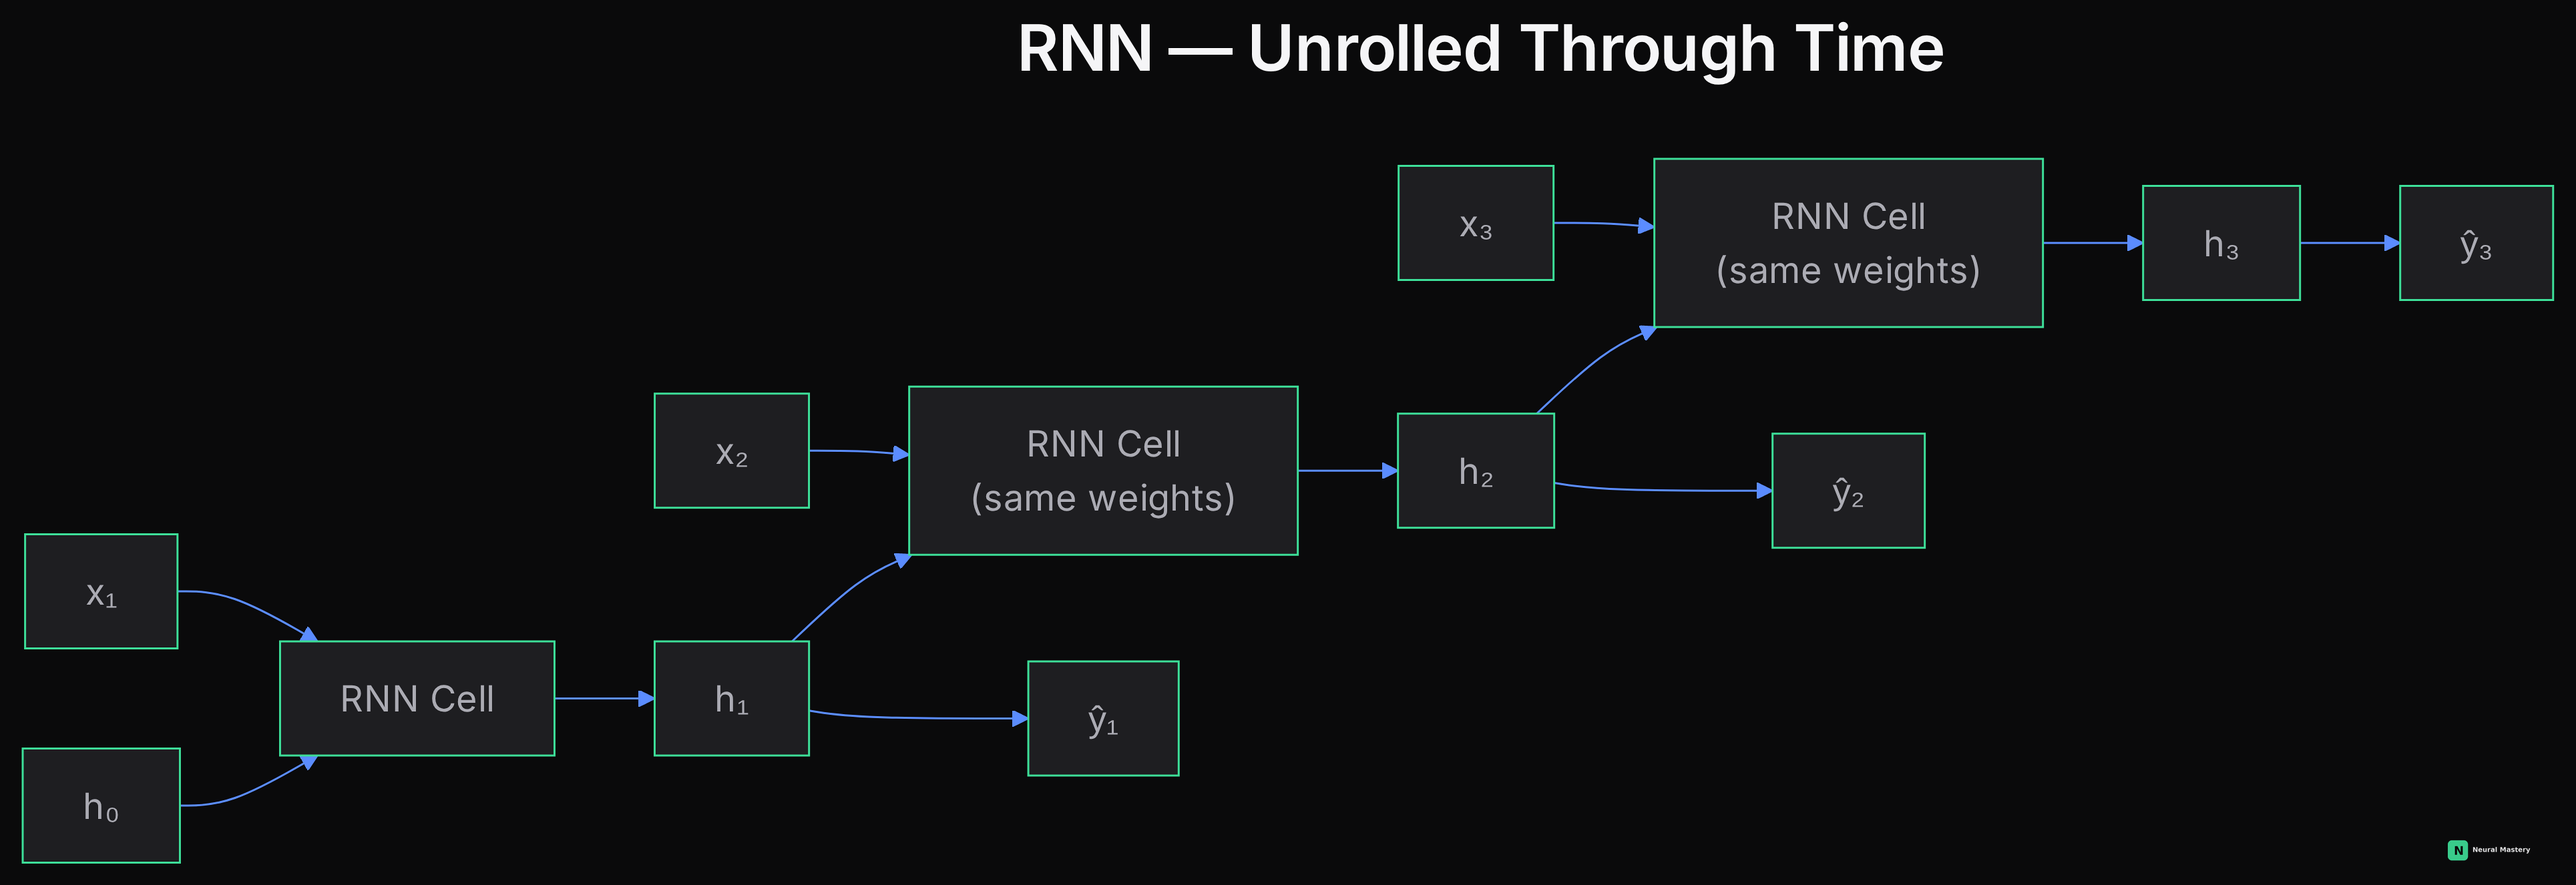
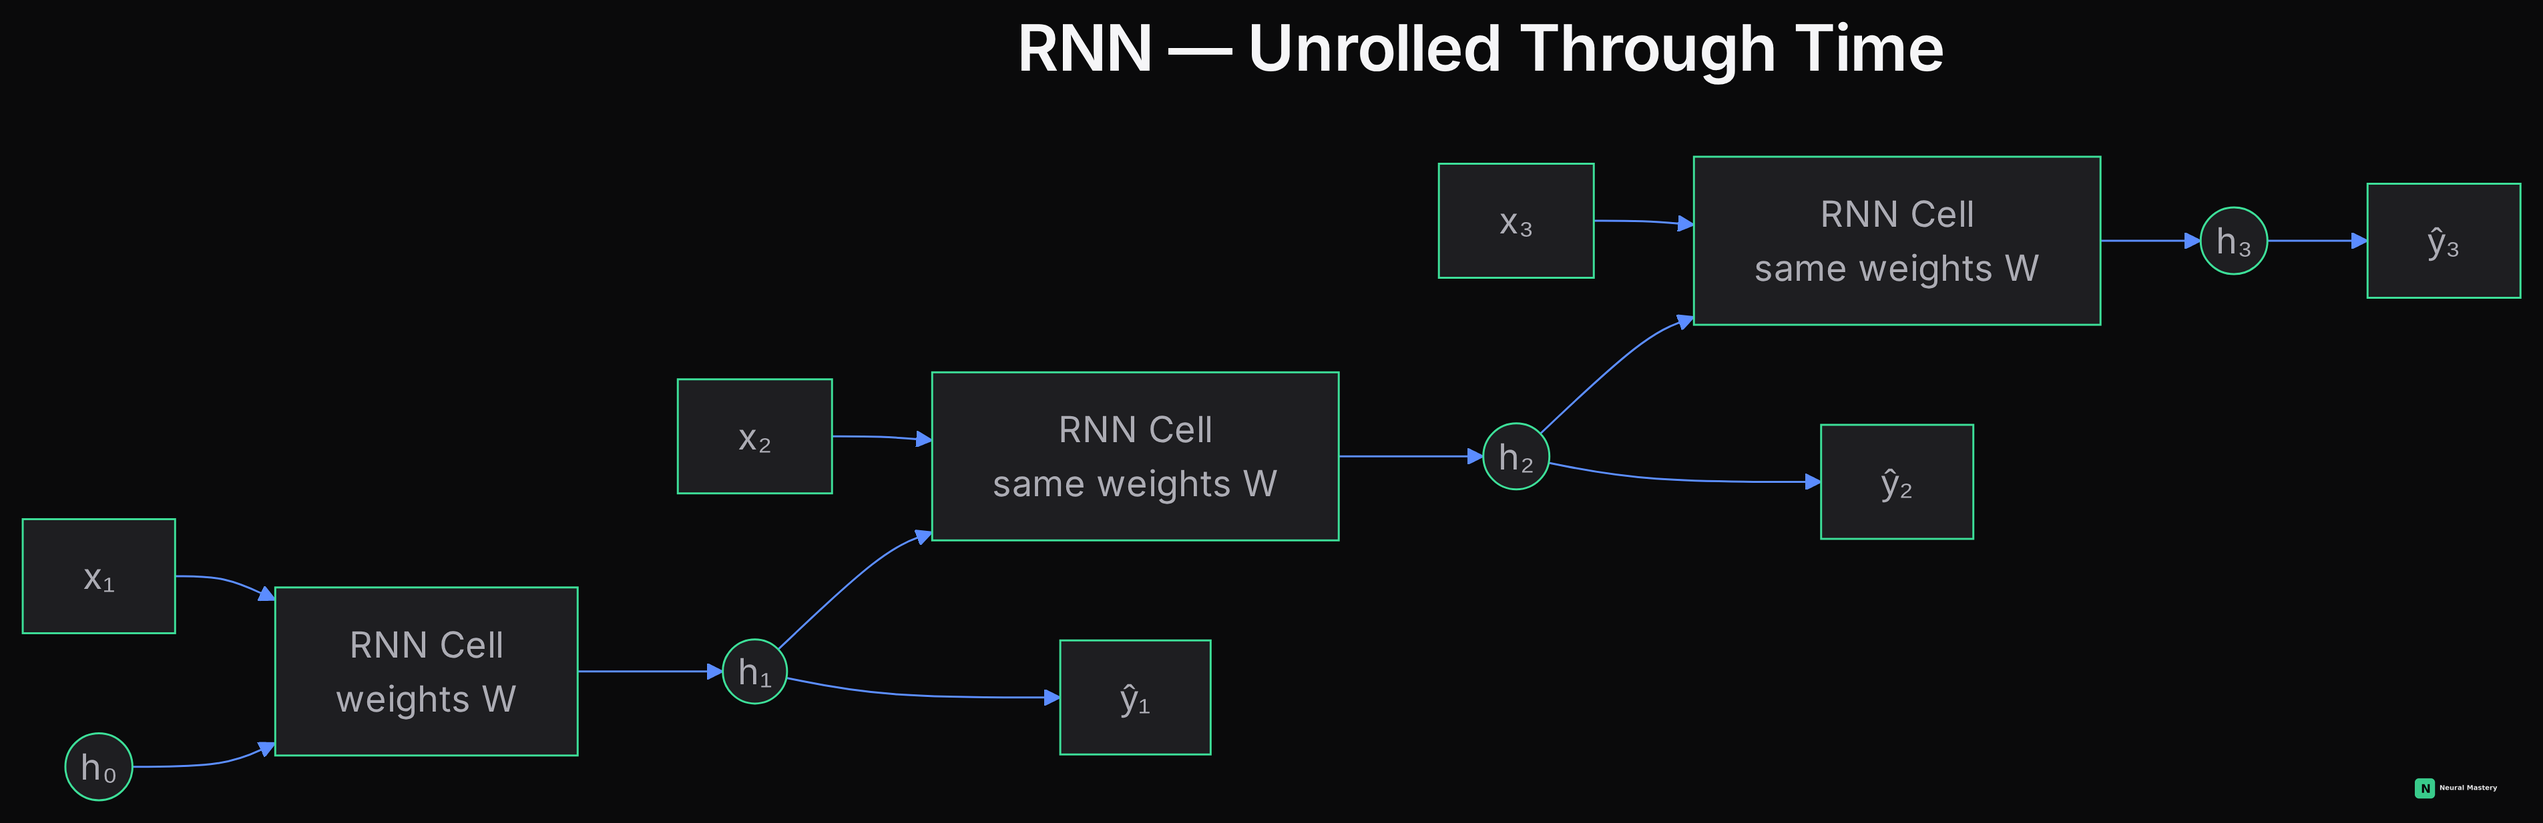
Enhance sequence-model diagrams to Colah-style clarity, add sequential-data intro
Direct feedback: the first-pass diagrams weren't understandable. Researched
the actual reference standard for these architectures (Colah's "Understanding
LSTM Networks," the most-cited RNN/LSTM explainer in the field) and rebuilt
all 5 diagrams to follow its proven visual convention: circles for pointwise
operations (x/+) and state vectors, rectangles for learned gate layers, cell
state drawn as a straight left-to-right "conveyor belt" rather than weaving
through the layout. Also simplified the GRU diagram's input wiring (one
combined xt+ht-1 node feeding both gates, instead of two separate fan-out
sources) specifically to cut the line-crossing that made the first version
hard to trace.

Also added a new "What Is Sequential Data?" section before the RNN section --
defines the i.i.d.-vs-sequential distinction, then a table of real examples
(text, audio, time series, video, DNA, clickstreams) each with why order
specifically matters for that domain, before the architectures that handle
this kind of data are introduced.

Verified all 5 re-rendered diagrams visually before shipping (read each PNG
back) rather than trusting the render alone -- caught the GRU diagram's
line-crossing problem this way and fixed it with a second iteration before
copying anything into the site.

diff --git a/docs/deep-learning/sequence-models.md b/docs/deep-learning/sequence-models.md
@@ -6,6 +6,23 @@ sidebar_position: 6
 
 Text, audio, time series, DNA — anywhere order carries meaning, you need an architecture that processes sequences, not fixed-size independent inputs.
 
+## What Is Sequential Data?
+
+Most of the models covered elsewhere on this site (linear/logistic regression, a plain feedforward network, a CNN on a single image) assume every input is **independent and identically distributed (i.i.d.)** — shuffle the rows of your training set and nothing changes, because each row is a self-contained example with no relationship to the ones before or after it.
+
+**Sequential data breaks that assumption on purpose**: each element's meaning depends on its position and on the elements around it, and shuffling the order destroys information a model needs.
+
+| Domain | Sequential data | Why order matters |
+|---|---|---|
+| Text | A sentence, a document | "dog bites man" and "man bites dog" use identical words in a different order, with opposite meaning |
+| Audio / speech | A waveform, a spectrogram over time | A phoneme only means something relative to the sounds immediately before and after it |
+| Time series | Stock prices, sensor readings, weather | Tomorrow's value depends on the recent trend, not just today's isolated number |
+| Video | A sequence of frames | A single frame can't show motion — motion *is* the relationship between consecutive frames |
+| Biology | DNA/RNA/protein sequences | The order of base pairs or amino acids determines structure and function, not just their composition |
+| User behavior | Clickstreams, purchase histories | What a user does next depends on the sequence of actions that led there, not any single past action alone |
+
+**Sequential models** are architectures built specifically to consume data in this form — processing elements in order (or at least order-aware), so a prediction at any point can depend on everything that came before it, not just the current element in isolation. Everything below is one family of approaches to that same problem, roughly in the order the field actually solved it.
+
 ## Recurrent Neural Networks (RNNs)
 
 An RNN processes a sequence one element at a time, maintaining a **hidden state** that's updated at each step and carries information forward: $h_t = f(h_{t-1}, x_t)$. In principle, this lets information from any earlier point in the sequence influence later predictions.
